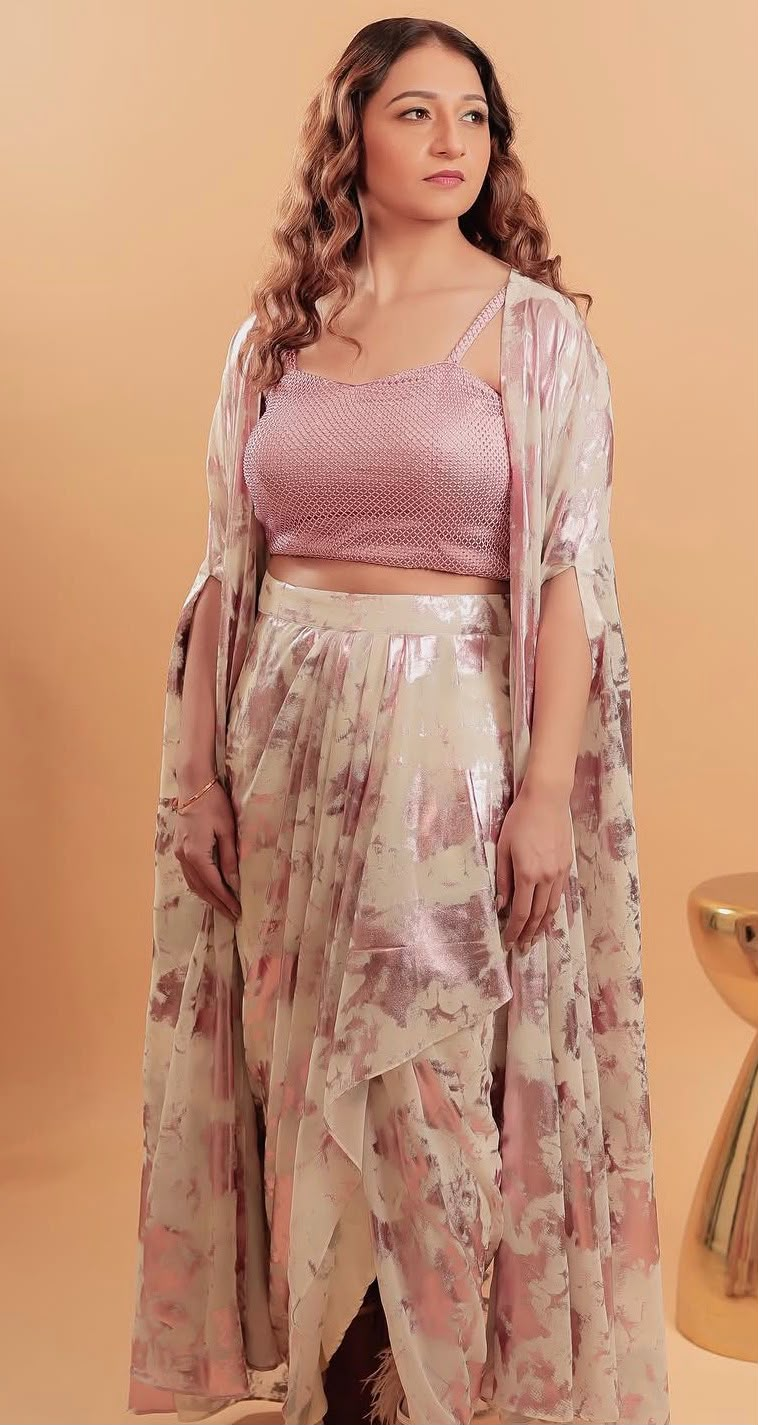
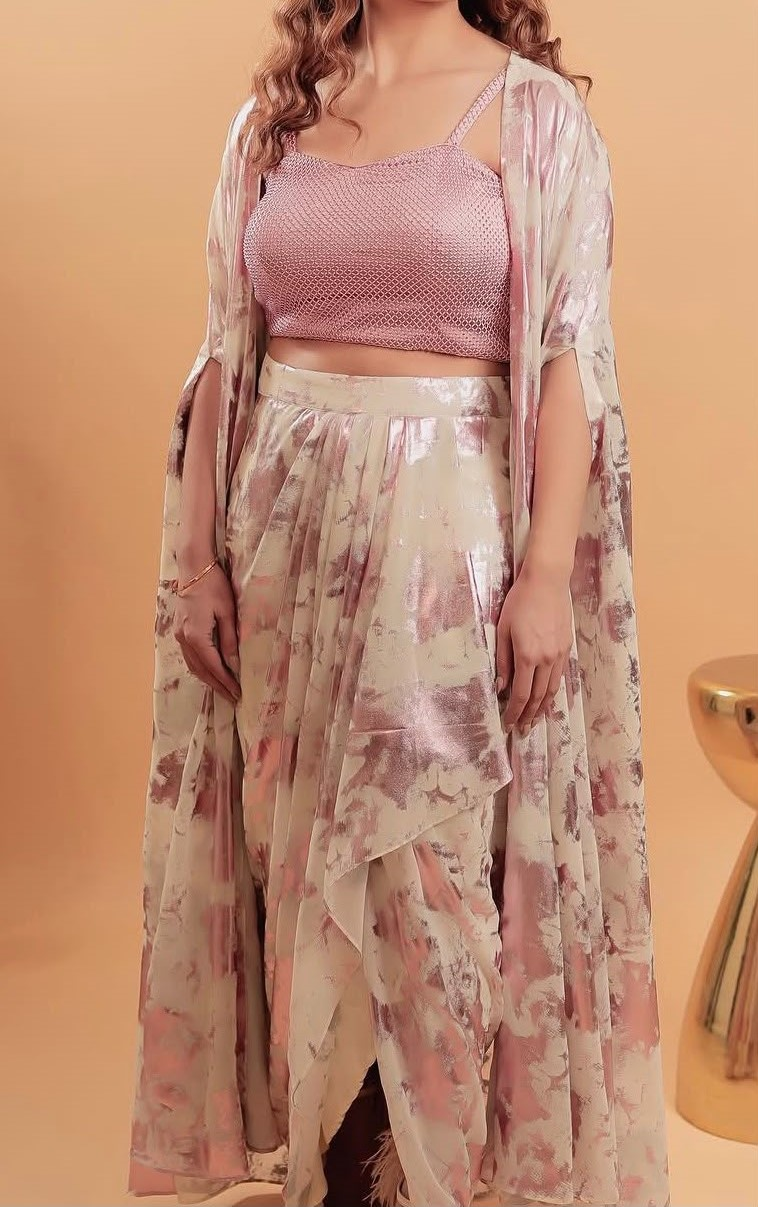
Add Suits collection and expand Sarees/Lehengas/Indo-Western
New pieces from the "other" set, named and grouped by garment type:
- Suits (new section): Sabza (30% off) + Sadaf, Zohra, Laila, Meera, Nilofer
- Sarees: + Sehar (made to order)
- Lehengas: + Kahkashan (30% off, 4 photos)
- Indo-Western: + Saya (priced), Roohi & Bahaar

cardHTML now supports three states: priced, sold-out + made-to-order, and
sold-out with no order. Galleries support up to 4 photos. Rakhi untouched.

diff --git a/index.html b/index.html
@@ -160,6 +160,7 @@ section.pad{padding:clamp(4.5rem,9vw,7.5rem) 0}
 .badge.box{top:auto;bottom:9px;left:9px}
 .badge.soldout{background:rgba(28,27,27,.82);color:#efedea;border-color:transparent;letter-spacing:.12em}
 .madeto{font-size:.72rem;letter-spacing:.14em;text-transform:uppercase;color:var(--muted)}
+.order.soldout-btn{color:var(--muted);border-color:var(--line);cursor:default;pointer-events:none;justify-content:center;letter-spacing:.2em}
 .card-body{padding:1rem .1rem 0;display:flex;flex-direction:column;gap:.45rem;flex:1}
 .card-body .cat{font-size:.6rem;letter-spacing:.24em;text-transform:uppercase;color:var(--muted)}
 .card-body h3{font-weight:400;font-size:1.02rem;line-height:1.3;color:var(--ink);letter-spacing:.06em}
@@ -306,12 +307,12 @@ body.no-scroll{overflow:hidden}
       <a href="#rakhi">Rakhi Edit</a>
       <a href="#sarees">Sarees</a>
       <a href="#lehengas">Lehengas</a>
+      <a href="#suits">Suits</a>
       <a href="#fusion">Indo-Western</a>
       <!-- Hidden for now — re-enable when Party Wear launches
       <a href="#party">Party Wear</a>
       <a href="#casual">Everyday</a> -->
       <a href="#custom">Custom</a>
-      <a href="#craft">The Craft</a>
       <a class="nav-cta" href="#" data-wa="Hi Pratha By Priyal! I'd like to know more about your collection.">Order on WhatsApp</a>
     </div>
     <button class="burger" id="burger" aria-label="Menu"><span></span><span></span><span></span></button>
@@ -395,8 +396,21 @@ body.no-scroll{overflow:hidden}
     </div>
   </section>
 
+  <!-- ====== SUITS ====== -->
+  <section class="pad section-alt" id="suits">
+    <div class="wrap">
+      <div class="section-head reveal">
+        <span class="eyebrow">Suit Sets</span>
+        <h2>Suits</h2>
+        <div class="rule"></div>
+        <p>Anarkalis, sharara sets and kurta pairings in rich fabrics and fine hand-work — tailored to your measure. Tap any photo to view it up close.</p>
+      </div>
+      <div class="grid" id="grid-suits"></div>
+    </div>
+  </section>
+
   <!-- ====== INDO-WESTERN ====== -->
-  <section class="pad section-alt" id="fusion">
+  <section class="pad" id="fusion">
     <div class="wrap">
       <div class="section-head reveal">
         <span class="eyebrow">Fusion</span>
@@ -503,6 +517,7 @@ body.no-scroll{overflow:hidden}
         <a href="#rakhi">Rakhi Edit</a>
         <a href="#sarees">Sarees</a>
         <a href="#lehengas">Lehengas</a>
+        <a href="#suits">Suits</a>
         <a href="#fusion">Indo-Western</a>
         <a href="#custom">Custom Pieces</a>
         <a href="#craft">The Craft</a>
@@ -558,15 +573,28 @@ const PRODUCTS = {
     { name:"Chameli", price:6350,  mrp:7940,  imgs:["assets/products/rakhi4-1.png","assets/products/rakhi4-2.png","assets/products/rakhi4-3.png"] },
     { name:"Nazuk",   price:8990,  mrp:11240, imgs:["assets/products/rakhi5-1.png","assets/products/rakhi5-2.png","assets/products/rakhi5-3.png"] },
   ],
-  sarees: [   // 30% off
-    { name:"Noor", price:8750, mrp:12500, imgs:["assets/products/soldout/soldout1.jpg"] },
+  sarees: [
+    { name:"Noor",  price:8750, mrp:12500, imgs:["assets/products/soldout/soldout1.jpg"] },
+    { name:"Sehar", soldOut:true, madeToOrder:true, imgs:["assets/products/other/10.jpg","assets/products/other/10-2.jpg","assets/products/other/10-3.jpg"] },
   ],
-  lehengas: [ // 30% off
-    { name:"Zoya", price:17850, mrp:25500, imgs:["assets/products/soldout/soldout2.jpg"] },
+  lehengas: [
+    { name:"Zoya",      price:17850, mrp:25500, imgs:["assets/products/soldout/soldout2.jpg"] },
+    { name:"Kahkashan", price:22050, mrp:31500, imgs:["assets/products/other/11-1.jpg","assets/products/other/11-2.jpg","assets/products/other/11-3.jpg","assets/products/other/11-4.jpg"] },
   ],
-  fusion: [   // Indo-Western — Mehr (30% off) + Gulnaz (sold out, made to order)
+  suits: [    // traditional suit sets — anarkali / sharara / kurta-pant
+    { name:"Sabza",   price:8750, mrp:12500, imgs:["assets/products/other/1.jpeg"] },
+    { name:"Sadaf",   soldOut:true,          imgs:["assets/products/other/2.jpeg"] },
+    { name:"Zohra",   soldOut:true,          imgs:["assets/products/other/3.jpeg"] },
+    { name:"Laila",   soldOut:true, madeToOrder:true, imgs:["assets/products/other/4.jpeg"] },
+    { name:"Meera",   soldOut:true, madeToOrder:true, imgs:["assets/products/other/5.jpeg"] },
+    { name:"Nilofer", soldOut:true,          imgs:["assets/products/other/6.jpeg"] },
+  ],
+  fusion: [   // Indo-Western
     { name:"Mehr",   price:5985, mrp:8550, imgs:["assets/products/soldout/soldout3-1.jpg","assets/products/soldout/soldout3-2.jpg"] },
-    { name:"Gulnaz", soldOut:true,         imgs:["assets/products/soldout/soldout4.jpg"] },
+    { name:"Saya",   price:9350,           imgs:["assets/products/other/7-1.jpeg","assets/products/other/7-2.jpeg","assets/products/other/7-3.jpeg"] },
+    { name:"Gulnaz", soldOut:true, madeToOrder:true, imgs:["assets/products/soldout/soldout4.jpg"] },
+    { name:"Roohi",  soldOut:true, madeToOrder:true, imgs:["assets/products/other/9.jpg","assets/products/other/9-2.jpg"] },
+    { name:"Bahaar", soldOut:true,          imgs:["assets/products/other/8-1.jpeg","assets/products/other/8-2.jpeg"] },
   ],
   party: [   // hidden for now
     { name:"Noor Sequin Lehenga",         price:8990, img:"" },
@@ -588,7 +616,7 @@ const PRODUCTS = {
 /* =========================================================
    🚫  No need to edit below this line
    ========================================================= */
-const CAT_LABEL = { rakhi:"Rakhi Edit", sarees:"Sarees", lehengas:"Lehengas", fusion:"Indo-Western", party:"Party Wear", casual:"Everyday" };
+const CAT_LABEL = { rakhi:"Rakhi Edit", sarees:"Sarees", lehengas:"Lehengas", suits:"Suits", fusion:"Indo-Western", party:"Party Wear", casual:"Everyday" };
 const inr = n => "₹" + Number(n).toLocaleString("en-IN");
 const WA_SVG = '<svg class="wa-ic" viewBox="0 0 24 24"><path d="M12.04 2C6.58 2 2.13 6.45 2.13 11.91c0 1.75.46 3.45 1.32 4.95L2 22l5.25-1.38a9.9 9.9 0 0 0 4.79 1.22c5.46 0 9.91-4.45 9.91-9.91 0-2.65-1.03-5.14-2.9-7.01A9.82 9.82 0 0 0 12.04 2Z"/></svg>';
 
@@ -597,11 +625,12 @@ function waLink(text){
 }
 
 function cardHTML(p, cat){
-  const isRakhi  = cat === "rakhi";
-  const soldOut  = !!p.soldOut;                                   // per-item: sold out · made to order
-  const hasMrp   = !soldOut && p.mrp && p.price && p.mrp > p.price;
+  const isRakhi = cat === "rakhi";
+  const soldOut = !!p.soldOut;
+  const mto     = soldOut && !!p.madeToOrder;                     // sold out AND can be made to order
+  const hasMrp  = !soldOut && p.mrp && p.price && p.mrp > p.price;
   const off = hasMrp ? Math.round((1 - p.price/p.mrp)*100) : 0;
-  const imgs = (p.imgs && p.imgs.length) ? p.imgs.slice(0,3) : (p.img ? [p.img] : []);
+  const imgs = (p.imgs && p.imgs.length) ? p.imgs.slice(0,4) : (p.img ? [p.img] : []);
   const ph = `<div class="ph">${p.name}</div>`;
   const mainImg = imgs.length
     ? `<img class="main" src="${imgs[0]}" alt="${p.name}" loading="lazy" onerror="this.style.display='none'">`
@@ -618,21 +647,27 @@ function cardHTML(p, cat){
   else if(hasMrp) badges += `<span class="badge">${off}% Off</span>`;
   if(isRakhi && !soldOut) badges += `<span class="badge box">Rakhi Box</span>`;
 
-  // Price line / made-to-order line
+  // Price / status line
   let infoHTML;
-  if(soldOut) infoHTML = `<span class="madeto">Sold out · Made to order</span>`;
+  if(soldOut) infoHTML = `<span class="madeto">${mto ? "Sold out · Made to order" : "Sold out"}</span>`;
   else if(hasMrp) infoHTML = `<span class="now">${inr(p.price)}</span><span class="was">${inr(p.mrp)}</span><span class="off">${off}% off</span>`;
   else if(p.price > 0) infoHTML = `<span class="now">${inr(p.price)}</span>`;
   else infoHTML = `<span class="now" style="font-size:.85rem;color:var(--muted)">Price on request</span>`;
 
-  // Button + WhatsApp message
-  const btnLabel = soldOut ? "Made to Order" : "Order on WhatsApp";
-  const priced = p.price > 0 ? ` (${inr(p.price)})` : "";
-  const msg = soldOut
-    ? `Hi Pratha By Priyal! I love the "${p.name}" (sold out). I'd like to get it made to order. My measurements are:`
-    : isRakhi
-      ? `Hi Pratha By Priyal! I'd like to order the "${p.name}" from the Rakhi Edit${p.price>0?` (${inr(p.price)}, incl. Rakhi gift box)`:""}. My measurements are:`
-      : `Hi Pratha By Priyal! I'd like to order the "${p.name}"${priced}. My measurements are:`;
+  // Action button
+  let actionHTML;
+  if(soldOut && !mto){
+    actionHTML = `<span class="btn order soldout-btn" aria-disabled="true">Sold Out</span>`;
+  } else {
+    const priced = p.price > 0 ? ` (${inr(p.price)})` : "";
+    const msg = mto
+      ? `Hi Pratha By Priyal! I love the "${p.name}" (sold out). I'd like to get it made to order. My measurements are:`
+      : isRakhi
+        ? `Hi Pratha By Priyal! I'd like to order the "${p.name}" from the Rakhi Edit${p.price>0?` (${inr(p.price)}, incl. Rakhi gift box)`:""}. My measurements are:`
+        : `Hi Pratha By Priyal! I'd like to order the "${p.name}"${priced}. My measurements are:`;
+    const label = mto ? "Made to Order" : "Order on WhatsApp";
+    actionHTML = `<a class="btn order${mto?' madeto-btn':''}" href="${waLink(msg)}" target="_blank" rel="noopener">${WA_SVG} ${label}</a>`;
+  }
 
   return `<article class="card reveal">
     <div class="thumb">${badges}${ph}${mainImg}</div>
@@ -641,7 +676,7 @@ function cardHTML(p, cat){
       <span class="cat">${CAT_LABEL[cat]}</span>
       <h3>${p.name}</h3>
       <div class="price">${infoHTML}</div>
-      <a class="btn order${soldOut?' madeto-btn':''}" href="${waLink(msg)}" target="_blank" rel="noopener">${WA_SVG} ${btnLabel}</a>
+      ${actionHTML}
     </div>
   </article>`;
 }
@@ -650,7 +685,7 @@ function render(cat){
   const el = document.getElementById("grid-" + cat);
   if(el) el.innerHTML = PRODUCTS[cat].map(p => cardHTML(p, cat)).join("");
 }
-["rakhi","sarees","lehengas","fusion","party","casual"].forEach(render);
+["rakhi","sarees","lehengas","suits","fusion","party","casual"].forEach(render);
 
 // Product gallery: click a thumbnail to swap the main photo
 document.addEventListener("click", (e)=>{
